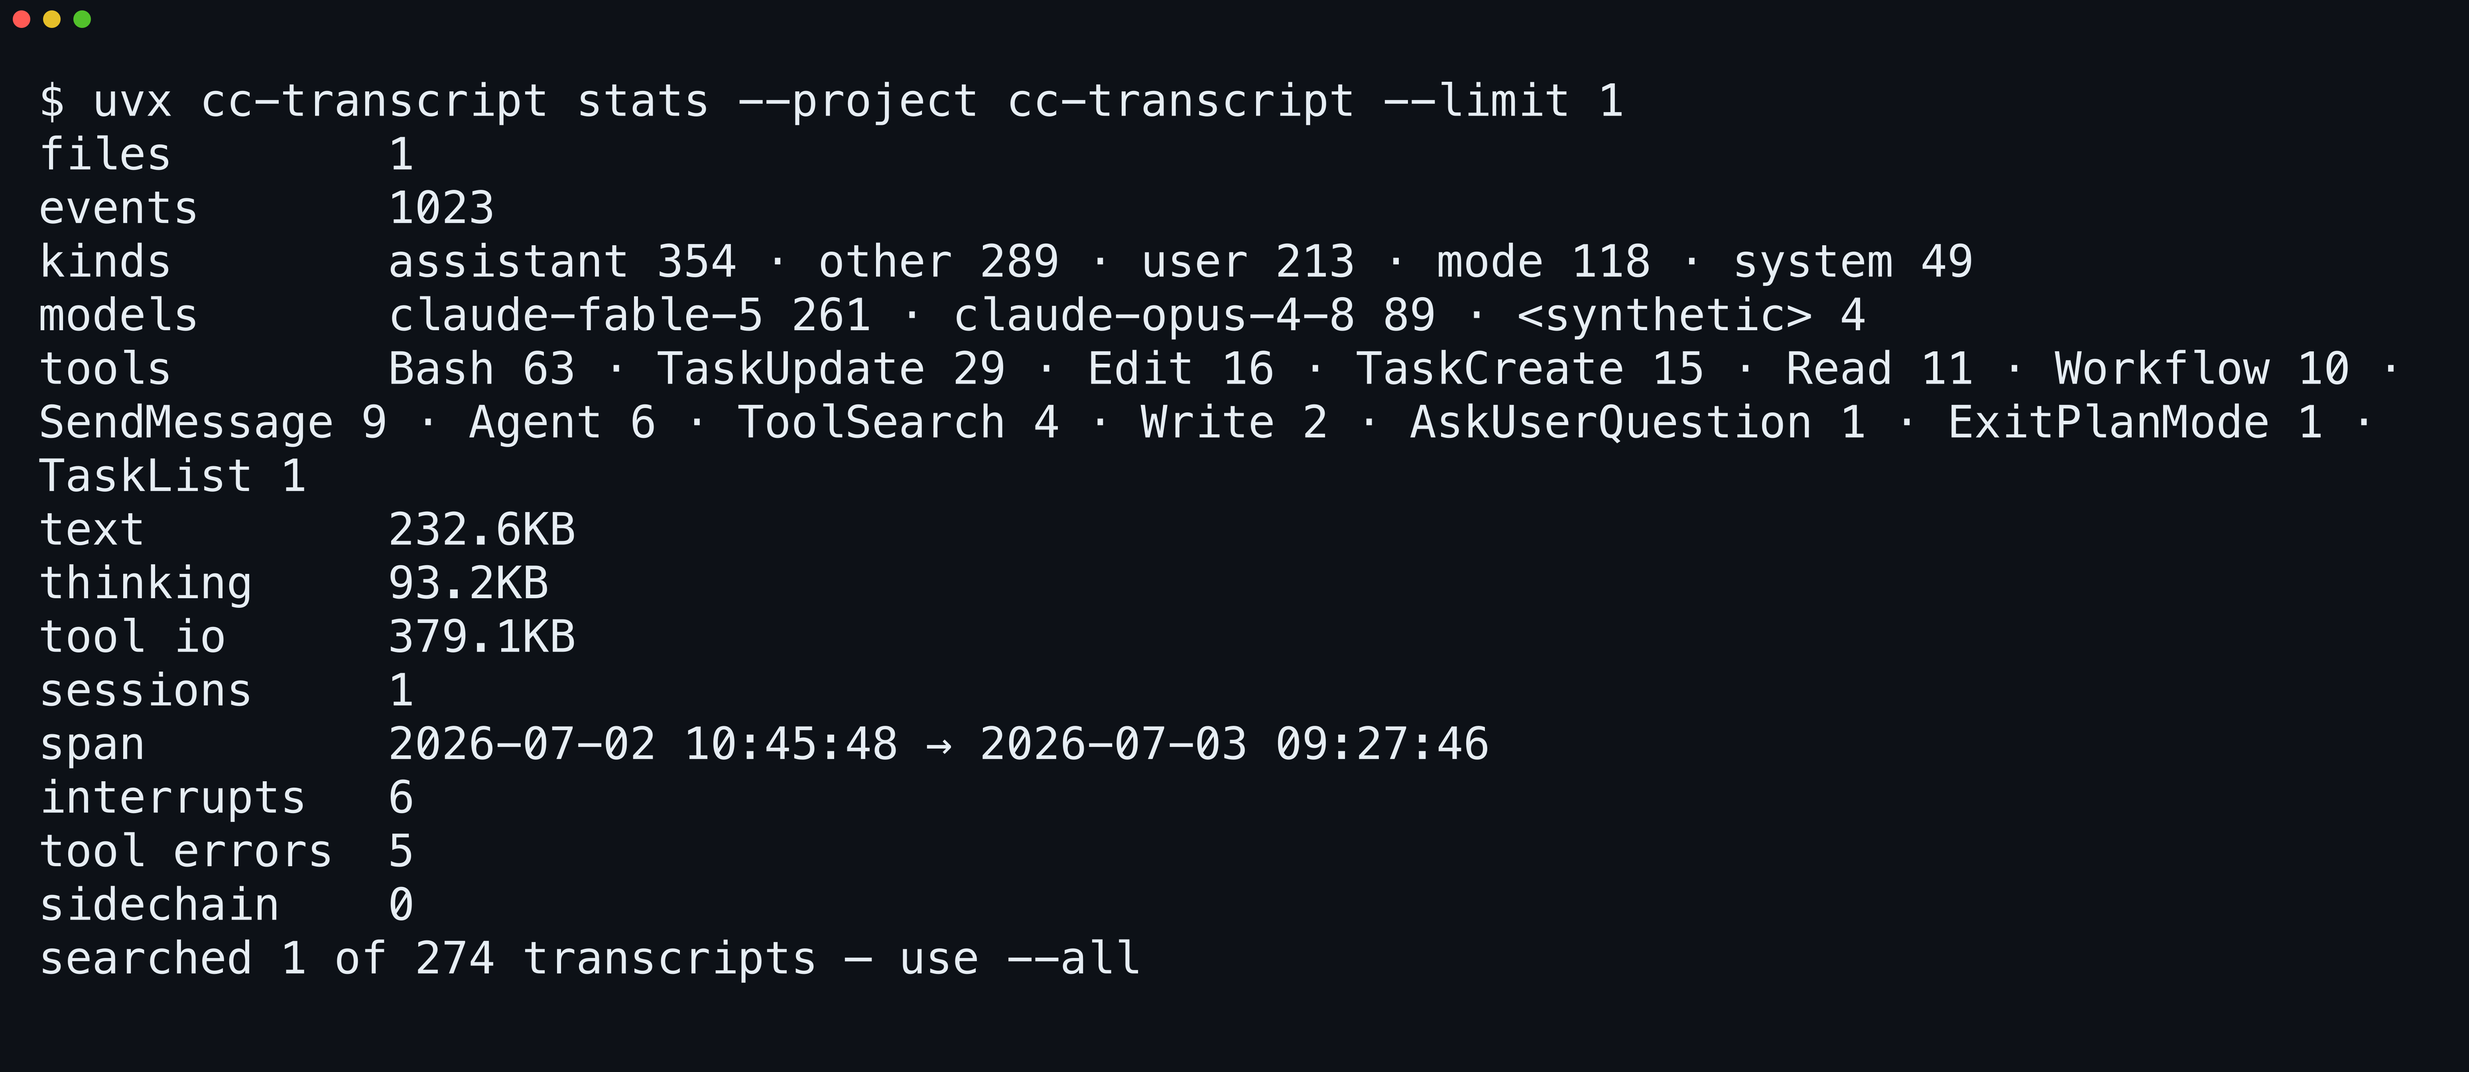
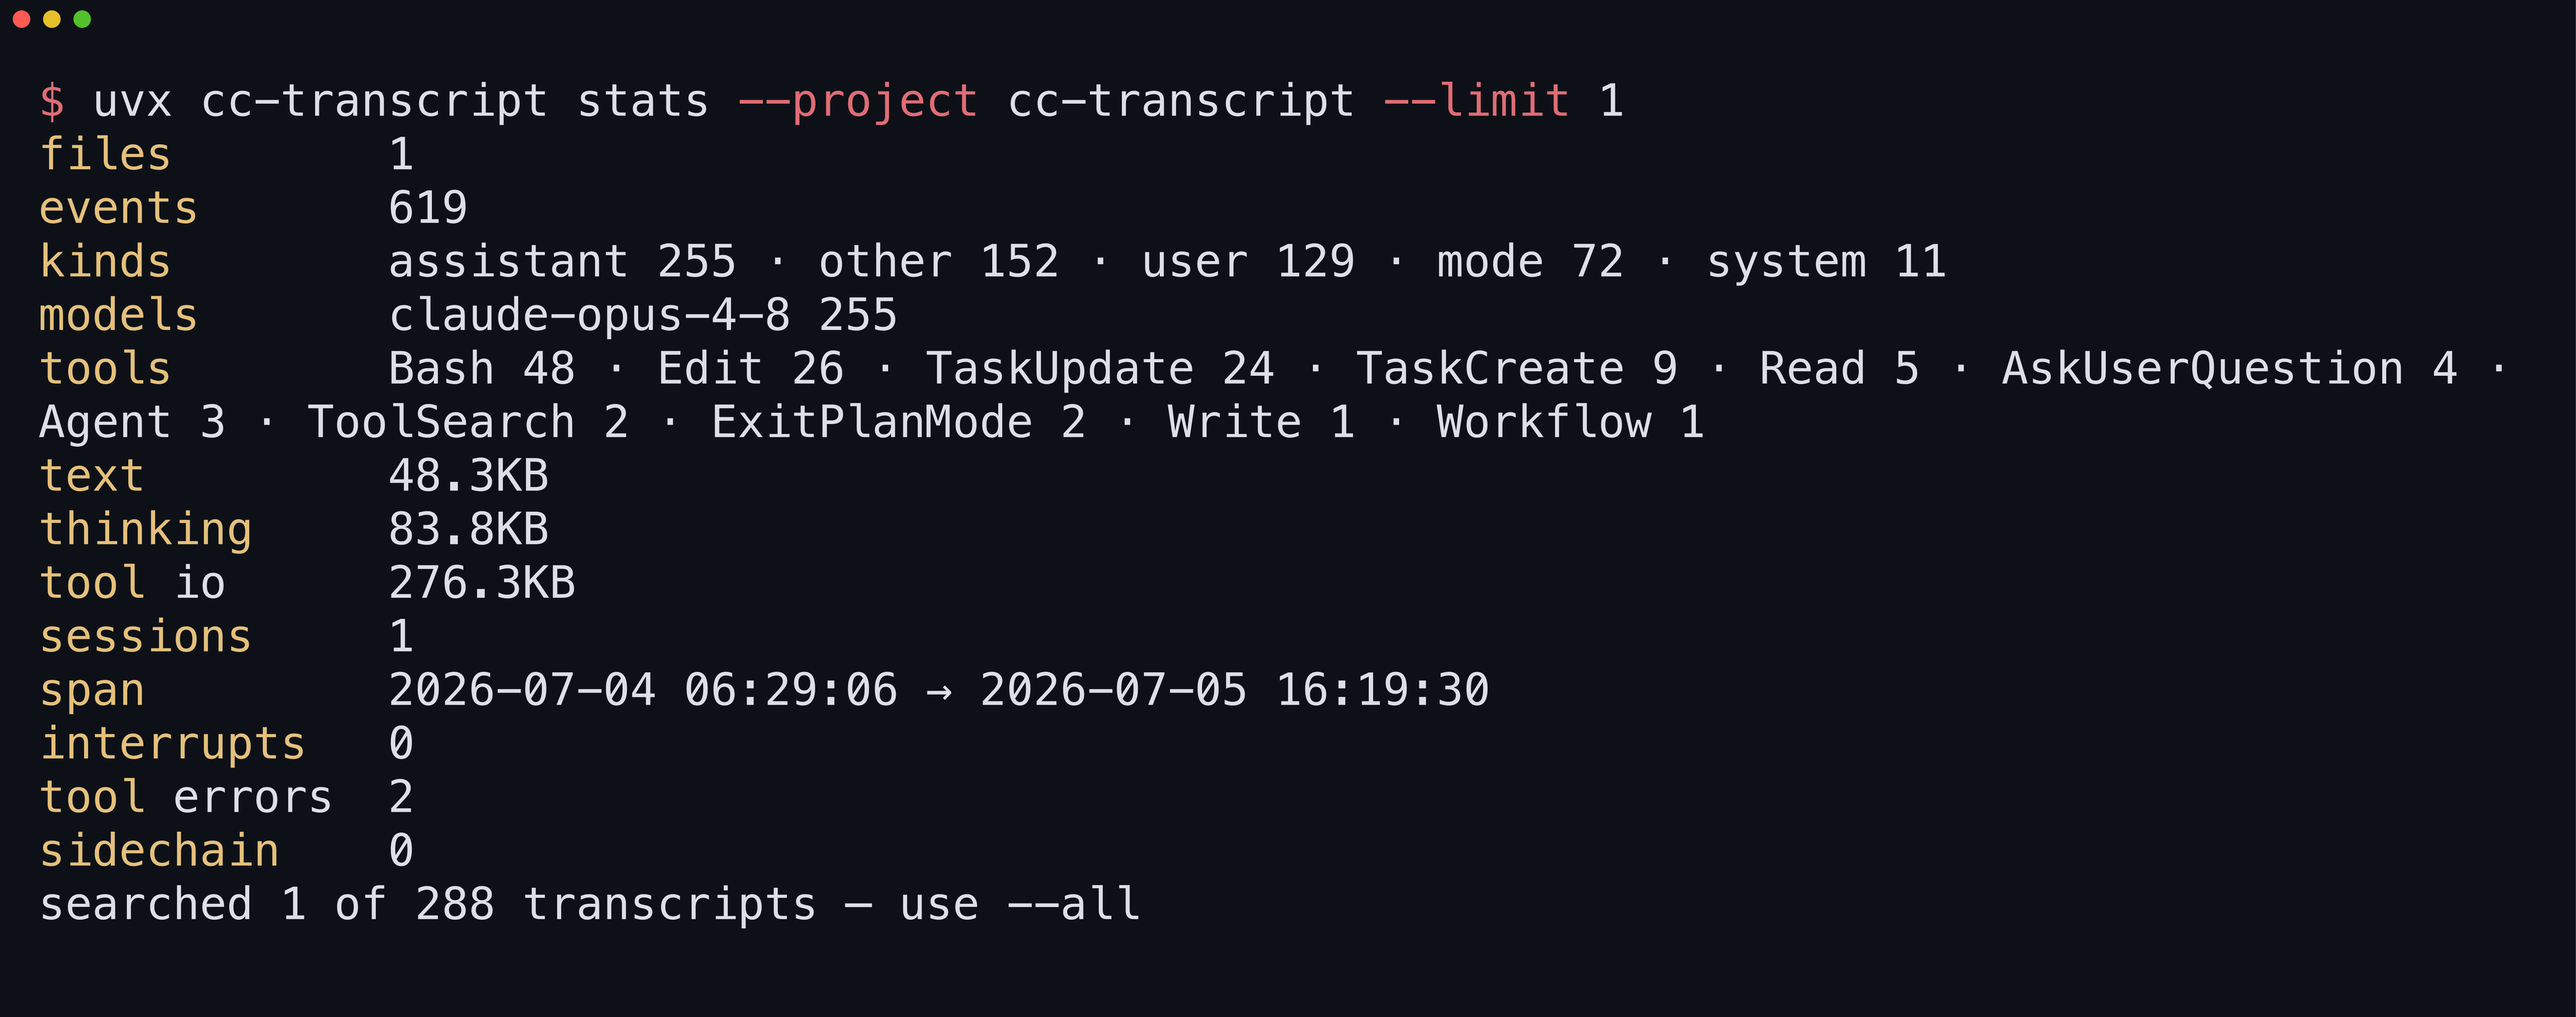
docs: colorize demo screenshot via bat + freeze --language ansi; README slop pass

Changed region(s): [[0.0, 0.0619, 0.9662, 0.9287]]

diff --git a/README.md b/README.md
@@ -4,7 +4,7 @@
 
 [![CI](https://github.com/yasyf/cc-transcript/actions/workflows/ci.yml/badge.svg)](https://github.com/yasyf/cc-transcript/actions/workflows/ci.yml)
 [![PyPI](https://img.shields.io/pypi/v/cc-transcript.svg)](https://pypi.org/project/cc-transcript/)
-[![License: PolyForm Noncommercial](https://img.shields.io/badge/license-PolyForm--Noncommercial--1.0.0-blue)](https://github.com/yasyf/cc-transcript/blob/main/LICENSE)
+[![License PolyForm Noncommercial](https://img.shields.io/badge/license-PolyForm--Noncommercial--1.0.0-blue)](https://github.com/yasyf/cc-transcript/blob/main/LICENSE)
 
 ## Get started
 
@@ -12,9 +12,9 @@
 uvx cc-transcript list
 ```
 
-Every session is already on disk under `~/.claude/projects` — `list` finds them newest first, and `stats` collapses one into a screenful:
+Every session is already on disk under `~/.claude/projects`. `list` finds them newest first, and `stats` collapses one into a screenful:
 
-<img src="https://github.com/yasyf/cc-transcript/raw/main/docs/assets/demo.png" alt="Terminal running 'uvx cc-transcript stats' — a 1,023-event session summarized as counts, kinds, models, and tool names" width="700">
+<img src="https://github.com/yasyf/cc-transcript/raw/main/docs/assets/demo.png" alt="Terminal running 'uvx cc-transcript stats' — one session summarized as counts, kinds, models, and tool names" width="700">
 
 Driving with an agent? Paste this:
 
@@ -23,7 +23,7 @@ Driving with an agent? Paste this:
 /plugin install cc-transcript@cc-transcript
 ```
 
-The plugin's skill teaches Claude to answer "what did I ask you yesterday?" from its own history, funneling through the CLI instead of reading raw JSONL.
+The plugin's skill teaches Claude to answer "what did I ask you yesterday" from its own history, funneling through the CLI instead of reading raw JSONL.
 
 <details>
 <summary>No Claude Code? Point any agent at the CLI</summary>
@@ -49,7 +49,7 @@ Yesterday's session is a megabyte of JSONL, and pasting it into a chat blows the
 uvx cc-transcript show --signal --tail 20 ~/.claude/projects/<project>/<session>.jsonl
 ```
 
-`--signal` keeps only the substantive user and assistant turns — one line per event, a few hundred tokens for the whole exchange. With the plugin installed, skip the command: ask Claude directly and its skill runs this funnel for you.
+`--signal` keeps only the substantive user and assistant turns. One line per event, a few hundred tokens for the whole exchange. With the plugin installed, skip the command and ask Claude directly; its skill runs this funnel for you.
 
 ### Find the session where you fixed that bug
 
@@ -59,7 +59,7 @@ The fix happened weeks ago, in one of a few hundred transcripts. Search them all
 uvx cc-transcript grep "TranscriptExpiredError" --project cc-transcript
 ```
 
-Hits print under their transcript's path, each line carrying its raw event index — feed an index back into `show --range` to re-read the conversation around the fix. `grep` searches your newest 50 transcripts by default; `--all` takes it to every session on disk, and a no-match run exits 1 so it scripts cleanly.
+Hits print under their transcript's path, each line carrying its raw event index; feed an index back into `show --range` to re-read the conversation around the fix. `grep` searches your newest 50 transcripts by default; `--all` takes it to every session on disk, and a no-match run exits 1 so it scripts cleanly.
 
 ### Debug a token blowup from transcript evidence
 
@@ -69,15 +69,15 @@ A session burned through the context window and you want the culprit, not a gues
 uvx cc-transcript stats --per-file --project myapp
 ```
 
-Each block reports text, thinking, and tool-io bytes plus per-tool call counts — the blowup stands out as an outsized `tool io` line. Then `grep --tool <name> --with-result` pins it to the exact calls.
+Each block reports text, thinking, and tool-io bytes plus per-tool call counts; the blowup stands out as an outsized `tool io` line. Then `grep --tool <name> --with-result` pins it to the exact calls.
 
 ## More in the docs
 
-- **The Python library** — raw JSONL bytes to typed events, a composed filter, and a score in a dozen lines — [getting started](https://yasyf.github.io/cc-transcript/docs/getting-started/index.html)
-- **Filtering events** — composable clauses, specs, and the ready-made `NOISE_SPEC` — [builder catalog](https://yasyf.github.io/cc-transcript/docs/guide/filtering-events.html)
-- **Sentiment scoring** — bucket conversations and score them around any inference engine — [score specs](https://yasyf.github.io/cc-transcript/docs/guide/scoring-sentiment.html)
-- **Feedback mining** — detectors, confidence calibration, and LLM verdict passes over your corpus — [mine your sessions](https://yasyf.github.io/cc-transcript/docs/guide/mining-feedback.html)
-- **Two backends, one protocol** — a Rust fast path and a Python reference, parity-asserted against each other — [how parity works](https://yasyf.github.io/cc-transcript/docs/guide/backends-and-parity.html)
-- **API reference** — the complete typed surface, from `TranscriptEvent` to `SessionActivity` — [reference](https://yasyf.github.io/cc-transcript/reference/index.html)
+- [The Python library](https://yasyf.github.io/cc-transcript/docs/getting-started/index.html) turns raw JSONL bytes into typed events, a composed filter, and a score in a dozen lines.
+- [Filtering events](https://yasyf.github.io/cc-transcript/docs/guide/filtering-events.html) covers composable clauses, specs, and the ready-made `NOISE_SPEC`.
+- [Sentiment scoring](https://yasyf.github.io/cc-transcript/docs/guide/scoring-sentiment.html) buckets conversations and scores them around any inference engine.
+- [Feedback mining](https://yasyf.github.io/cc-transcript/docs/guide/mining-feedback.html) runs detectors, confidence calibration, and LLM verdict passes over your corpus.
+- [Two backends, one protocol](https://yasyf.github.io/cc-transcript/docs/guide/backends-and-parity.html) pairs a Rust fast path with a Python reference, parity-asserted against each other.
+- [API reference](https://yasyf.github.io/cc-transcript/reference/index.html) documents the complete typed surface, from `TranscriptEvent` to `SessionActivity`.
 
 Read the [docs](https://yasyf.github.io/cc-transcript/) for the full guide. Licensed under [PolyForm Noncommercial 1.0.0](https://github.com/yasyf/cc-transcript/blob/main/LICENSE).
